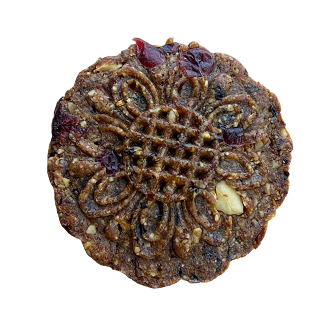
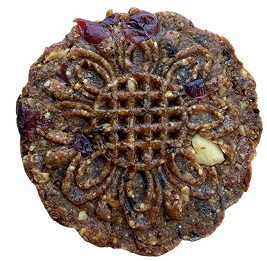
Update snack photos; normalise batat filename and drop stray drink-folder copies
- Refresh photos for Шоколад, Клюква — лимон, Орехи с изюмом и клюквой and
  Лукум, миндаль и финики
- Replace the batat photo and rename the file to «Запечённый батат с пармезаном.png»
  (the old and new names both carried a non-breaking space); repoint data.js
- Remove Клюква - лимон.png and Шоколад.png from img/Напитки — snack photos that
  had been copied into the drinks folder, byte-identical to img/перекусы

diff --git a/js/data.js b/js/data.js
@@ -364,7 +364,7 @@ const SNACKS = {
       name: "Запечённый батат с пармезаном",
       nameEn: "Sweet Potato Fries",
       price: 490,
-      image: "img/перекусы/Запеченный батат с пармезаном.png",
+      image: "img/перекусы/Запечённый батат с пармезаном.png",
       items: [
         { id: "batat-fries", name: "Батат запечённый с пармезаном", ingredients: "" }
       ]
